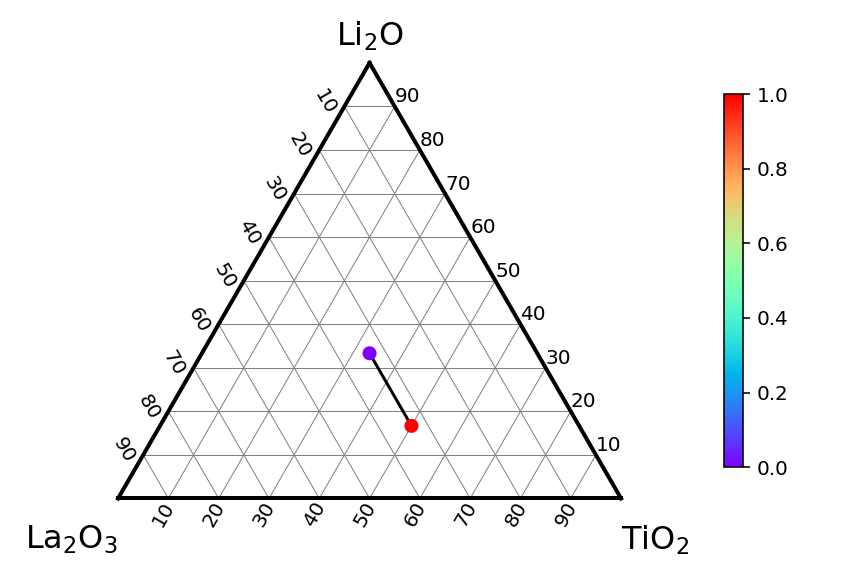
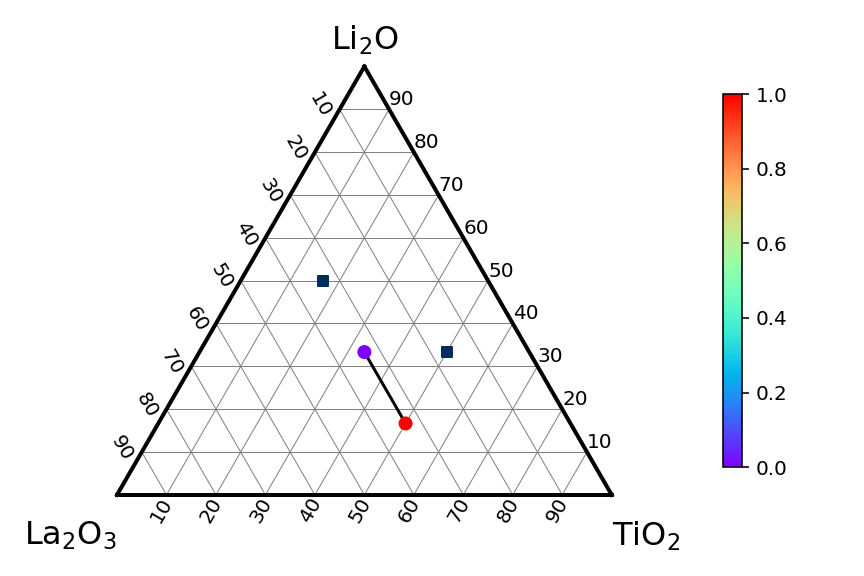
Update README.

diff --git a/README.md b/README.md
@@ -46,8 +46,9 @@ import matplotlib.pyplot as plt
 from ternary_diagram import TernaryDiagram
 
 td = TernaryDiagram(['Li2O', 'La2O3', 'TiO2'])
-td.scatter([[1, 1, 1], [1, 2, 3]], z = [0, 1], marker = 'o')    # You can set some options in matplotlib.pyplot.scatter like `marker`, `c` etc.
-td.plot([1, 1, 1], [1, 2, 3], color = 'black')  # You can set some options in matplotlib.pyplot.plot like `lw`, `c`, and so on.
+td.scatter(vector = [[1, 1, 1], [1, 2, 3]], z = [0, 1])
+td.scatter(vector = [[2, 1, 3], [3, 2, 1]], marker = 's', c = '#022c5e', s = 30)    # You can set some options in matplotlib.pyplot.scatter like `marker`, `c` etc.
+td.plot(r1 = [1, 1, 1], r2 = [1, 2, 3], color = 'black')  # You can set some options in matplotlib.pyplot.plot like `lw`, `c`, and so on.
 plt.savefig('figure.png', dpi = 144)
 ```
 
@@ -59,9 +60,10 @@ import matplotlib.pyplot as plt
 from ternary_diagram import TernaryDiagram
 
 fig, ax = plt.subplots(facecolor='w')   # The background color is sometimes transparent in jupyter notebooks, so set facecolor 'white'.
-td = TernaryDiagram(['Li2O', 'La2O3', 'TiO2'], ax=ax)   # You can set `ax` to select which axes to draw. If not, 
-td.scatter([[1, 1, 1], [1, 2, 3]], z = [0, 1], marker = 'o')
-td.plot([1, 1, 1], [1, 2, 3], color = 'black')
+td = TernaryDiagram(['Li2O', 'La2O3', 'TiO2'], ax=ax)   # You can set `ax` to select which axes to draw. If None, automatically select or generate. 
+td.scatter(vector = [[1, 1, 1], [1, 2, 3]], z = [0, 1])
+td.scatter(vector = [[2, 1, 3], [3, 2, 1]], marker = 's', c = '#022c5e', s = 30)    # You can set some options in matplotlib.pyplot.scatter like `marker`, `c` etc.
+td.plot(r1 = [1, 1, 1], r2 = [1, 2, 3], color = 'black')  # You can set some options in matplotlib.pyplot.plot like `lw`, `c`, and so on.
 fig.savefig('figure.png', dpi = 144)
 ```
 
